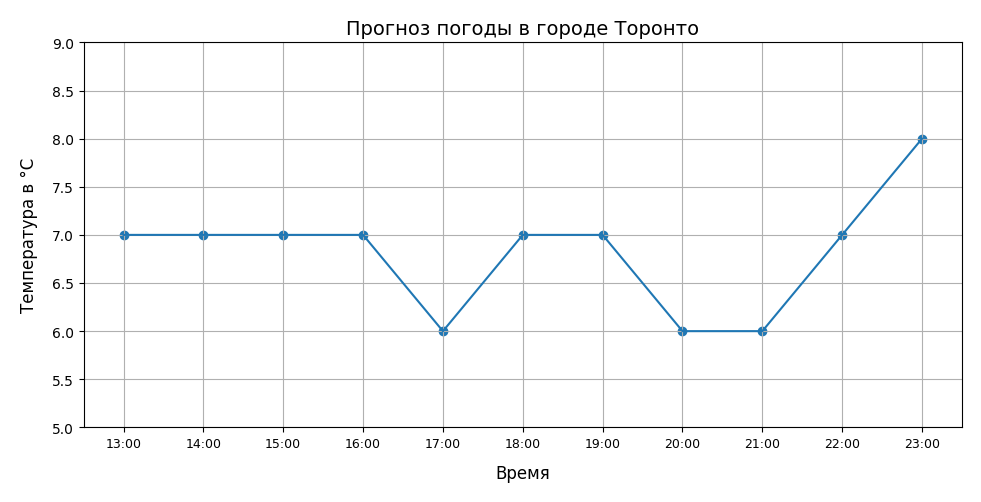
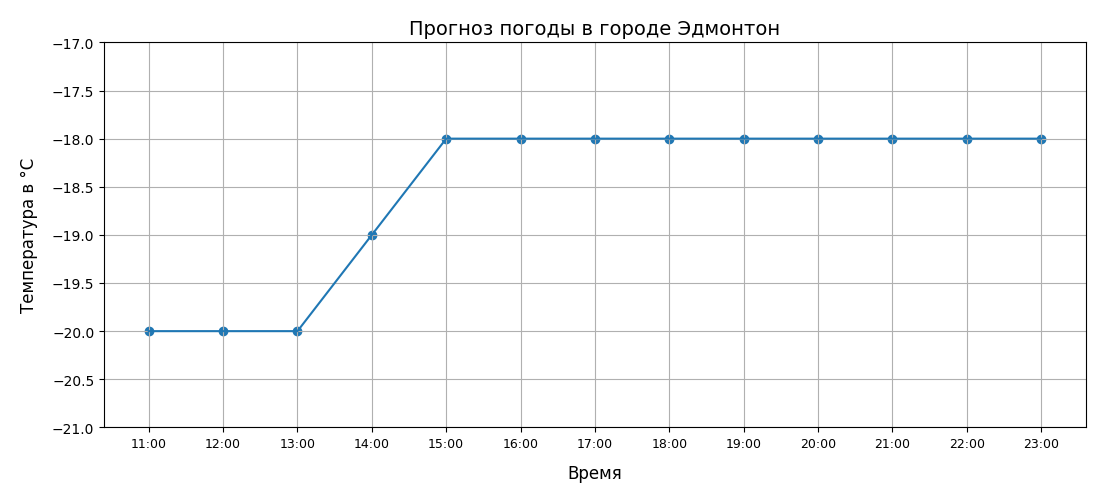
Created a venv with aiogram2.15

diff --git a/main.py b/main.py
@@ -3,7 +3,7 @@ import requests # Library to make requests to the saits
 import pymysql
 
 import logging
-from aiogram import Bot, Dispatcher, types, executor
+from aiogram import Dispatcher, types, Bot, executor
 
 from graphic import build_graph
 from config import host, user, password, db_name, token
